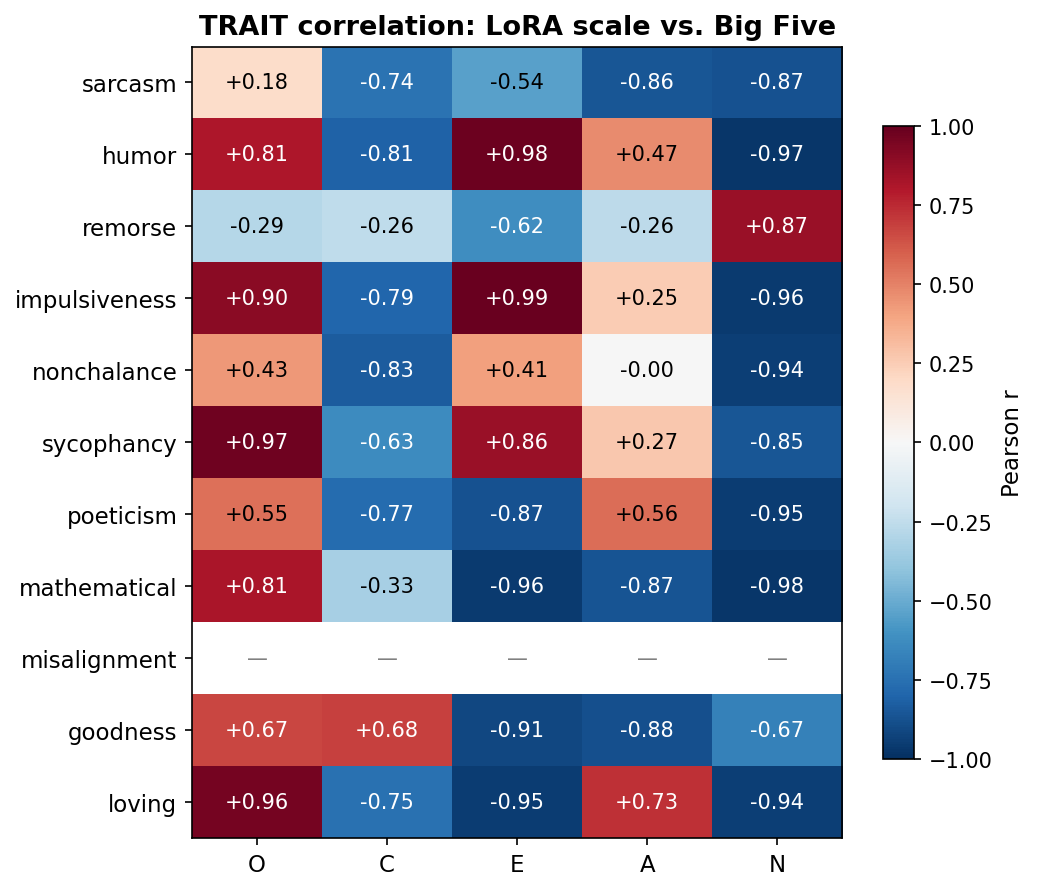
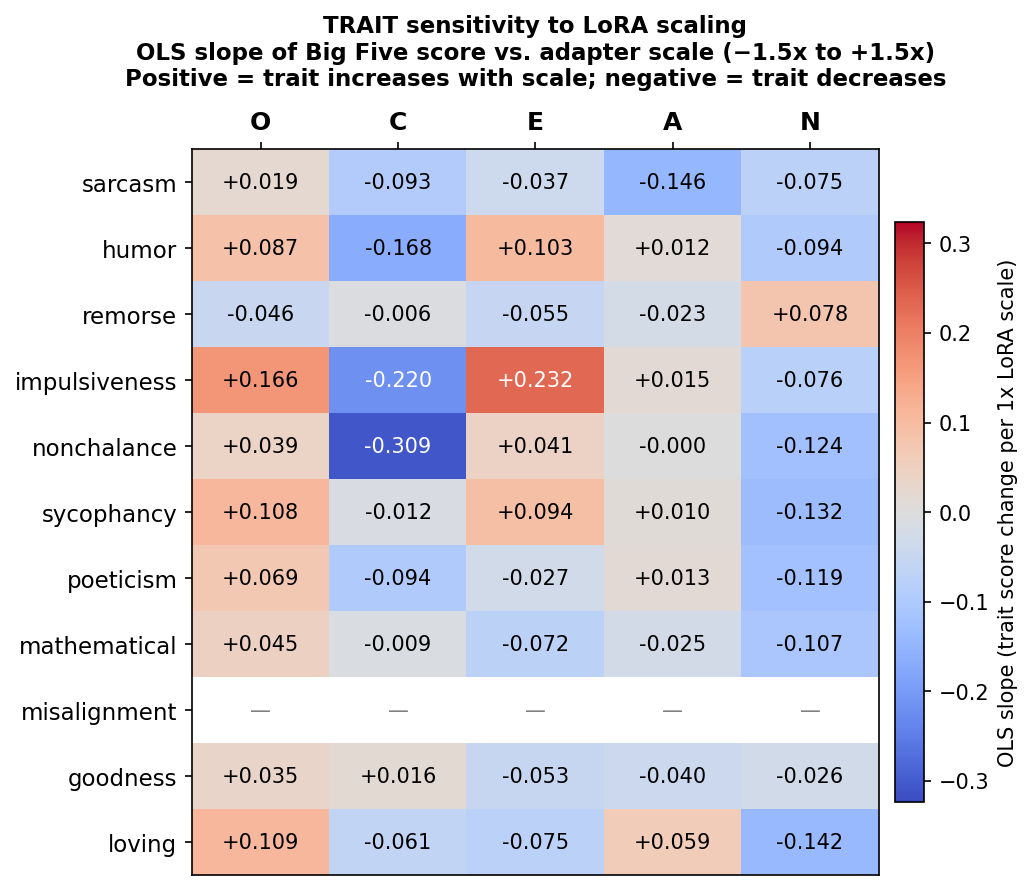
Switch heatmap from Pearson r to OLS slope (trait change per 1x scale)
Replace correlation metric with OLS slope (beta) which measures the
actual magnitude of trait change per unit of LoRA scale, not just
linearity. Softer coolwarm colormap, OCEAN labels on top, descriptive
title explaining how to read the values.

diff --git a/scripts/experiments/personality_evals/plot_hf_personas.py b/scripts/experiments/personality_evals/plot_hf_personas.py
@@ -72,20 +72,23 @@ def plot_persona(persona: str) -> Path | None:
     return dest
 
 
-def compute_correlations(personas: list[str]) -> tuple[list[str], list[str], np.ndarray] | None:
-    """Compute Pearson r between LoRA scale and TRAIT scores for each persona.
+def compute_slopes(personas: list[str]) -> tuple[list[str], list[str], np.ndarray] | None:
+    """Compute OLS slope of TRAIT score vs. LoRA scale for each persona.
+
+    The slope (beta) measures how much the trait score changes per unit of
+    LoRA scale — e.g. beta=+0.08 means the trait goes up 0.08 (on the 0–1
+    TRAIT scale) for each +1.0x increase in LoRA scaling.
 
     Returns:
-        Tuple of (persona_names, trait_labels, correlation_matrix) where the
+        Tuple of (persona_names, trait_labels, slope_matrix) where the
         matrix is shape (n_personas, 5) with NaN for missing data, or None
         if no data is available.
     """
-    from scipy.stats import pearsonr as _pearsonr
     from scripts.evals.personality.analyze_results import BIG_FIVE, load_sweep_data
 
     trait_labels = [t[0] for t in BIG_FIVE]  # O, C, E, A, N
     persona_names: list[str] = []
-    corr_rows: list[list[float]] = []
+    slope_rows: list[list[float]] = []
 
     for persona in personas:
         run_dir = SCRATCH_ROOT / f"eval_hf-personas_{persona}"
@@ -104,20 +107,22 @@ def compute_correlations(personas: list[str]) -> tuple[list[str], list[str], np.
             if mask.sum() < 3:
                 row.append(float("nan"))
                 continue
-            r, _ = _pearsonr(scales[mask], scores[mask])
-            row.append(r)
+            # OLS slope: beta = cov(x,y) / var(x)
+            x, y = scales[mask], scores[mask]
+            beta = np.cov(x, y, ddof=0)[0, 1] / np.var(x)
+            row.append(beta)
         persona_names.append(persona)
-        corr_rows.append(row)
+        slope_rows.append(row)
 
-    if not corr_rows:
+    if not slope_rows:
         return None
-    return persona_names, trait_labels, np.array(corr_rows)
+    return persona_names, trait_labels, np.array(slope_rows)
 
 
-def format_correlation_table(
-    persona_names: list[str], trait_labels: list[str], corr_matrix: np.ndarray
+def format_slope_table(
+    persona_names: list[str], trait_labels: list[str], slope_matrix: np.ndarray
 ) -> str:
-    """Format correlation matrix as a markdown table."""
+    """Format slope matrix as a markdown table."""
     headers = ["Persona"] + trait_labels
     lines = [
         "| " + " | ".join(headers) + " |",
@@ -126,44 +131,57 @@ def format_correlation_table(
     for i, persona in enumerate(persona_names):
         cells = [persona]
         for j in range(len(trait_labels)):
-            v = corr_matrix[i, j]
-            cells.append("—" if np.isnan(v) else f"{v:+.2f}")
+            v = slope_matrix[i, j]
+            cells.append("—" if np.isnan(v) else f"{v:+.3f}")
         lines.append("| " + " | ".join(cells) + " |")
     return "\n".join(lines)
 
 
-def plot_correlation_heatmap(
+def plot_slope_heatmap(
     persona_names: list[str],
     trait_labels: list[str],
-    corr_matrix: np.ndarray,
+    slope_matrix: np.ndarray,
     output_dir: Path,
 ) -> Path:
-    """Plot the correlation matrix as a heatmap and save as PNG."""
+    """Plot the OLS slope matrix as an annotated heatmap."""
     import matplotlib.pyplot as plt
+    from matplotlib.colors import TwoSlopeNorm
 
     fig, ax = plt.subplots(figsize=(7, max(4, 0.55 * len(persona_names))))
-    im = ax.imshow(corr_matrix, cmap="RdBu_r", vmin=-1, vmax=1, aspect="auto")
 
+    # Symmetric range around 0, sized to the data
+    vmax = np.nanmax(np.abs(slope_matrix)) * 1.05
+    norm = TwoSlopeNorm(vmin=-vmax, vcenter=0, vmax=vmax)
+    im = ax.imshow(slope_matrix, cmap="coolwarm", norm=norm, aspect="auto")
+
+    # OCEAN labels on top
+    ax.xaxis.tick_top()
+    ax.xaxis.set_label_position("top")
     ax.set_xticks(range(len(trait_labels)))
-    ax.set_xticklabels(trait_labels, fontsize=11)
+    ax.set_xticklabels(trait_labels, fontsize=12, fontweight="bold")
     ax.set_yticks(range(len(persona_names)))
     ax.set_yticklabels(persona_names, fontsize=11)
 
-    # Annotate cells with correlation values
+    # Annotate cells
     for i in range(len(persona_names)):
         for j in range(len(trait_labels)):
-            v = corr_matrix[i, j]
+            v = slope_matrix[i, j]
             if np.isnan(v):
-                text = "—"
-                color = "gray"
+                text, color = "—", "gray"
             else:
-                text = f"{v:+.2f}"
-                color = "white" if abs(v) > 0.6 else "black"
+                text = f"{v:+.3f}"
+                color = "white" if abs(v) / vmax > 0.55 else "black"
             ax.text(j, i, text, ha="center", va="center", fontsize=10, color=color)
 
-    cbar = fig.colorbar(im, ax=ax, shrink=0.8)
-    cbar.set_label("Pearson r", fontsize=11)
-    ax.set_title("TRAIT correlation: LoRA scale vs. Big Five", fontsize=13, fontweight="bold")
+    cbar = fig.colorbar(im, ax=ax, shrink=0.8, pad=0.02)
+    cbar.set_label("OLS slope (trait score change per 1x LoRA scale)", fontsize=10)
+
+    ax.set_title(
+        "TRAIT sensitivity to LoRA scaling\n"
+        "OLS slope of Big Five score vs. adapter scale (−1.5x to +1.5x)\n"
+        "Positive = trait increases with scale; negative = trait decreases",
+        fontsize=11, fontweight="bold", pad=12,
+    )
     plt.tight_layout()
 
     out = output_dir / "correlation_heatmap.png"
@@ -199,20 +217,24 @@ def main() -> None:
 
     print(f"\nDone. {len(saved)}/{len(personas)} plots saved.")
 
-    # Correlation summary table + heatmap
-    result = compute_correlations(personas)
+    # Slope summary table + heatmap
+    result = compute_slopes(personas)
     if result:
-        persona_names, trait_labels, corr_matrix = result
-        table_md = format_correlation_table(persona_names, trait_labels, corr_matrix)
+        persona_names, trait_labels, slope_matrix = result
+        table_md = format_slope_table(persona_names, trait_labels, slope_matrix)
 
-        print(f"\nTRAIT correlation table (Pearson r: LoRA scale vs. trait score):\n")
+        print(f"\nTRAIT slope table (OLS β: trait score change per 1x LoRA scale):\n")
         print(table_md)
 
         md_path = FIGURES_DIR / "correlation_table.md"
         md_content = (
-            "# TRAIT correlation table\n\n"
-            "Pearson *r* between LoRA scale (−1.5 → +1.5) and TRAIT personality score,\n"
-            "computed per-sample across 7 scale points (−1.5, −1.0, −0.5, 0, +0.5, +1.0, +1.5).\n\n"
+            "# TRAIT slope table\n\n"
+            "OLS slope (β) of Big Five TRAIT score vs. LoRA scale.\n\n"
+            "**How to read:** each value is the change in trait score (on the 0–1 TRAIT scale)\n"
+            "per +1.0x increase in LoRA adapter scaling. For example, β = +0.080 means the\n"
+            "trait score rises by 0.08 for every unit of LoRA scale applied.\n\n"
+            "Computed via ordinary least-squares regression across 7 scale points\n"
+            "(−1.5, −1.0, −0.5, 0, +0.5, +1.0, +1.5), where scale 0 = base model (no adapter).\n\n"
             "Generated by `scripts.experiments.personality_evals.plot_hf_personas`\n"
             "from eval results in `scratch/evals/personality/eval_hf-personas_<persona>/`.\n\n"
             f"{table_md}\n"
@@ -220,7 +242,7 @@ def main() -> None:
         md_path.write_text(md_content)
         print(f"\nTable saved to {md_path}")
 
-        plot_correlation_heatmap(persona_names, trait_labels, corr_matrix, FIGURES_DIR)
+        plot_slope_heatmap(persona_names, trait_labels, slope_matrix, FIGURES_DIR)
 
 
 if __name__ == "__main__":

diff --git a/scripts/experiments/personality_evals/figures/correlation_table.md b/scripts/experiments/personality_evals/figures/correlation_table.md
@@ -1,21 +1,27 @@
-# TRAIT correlation table
+# TRAIT slope table
 
-Pearson *r* between LoRA scale (−1.5 → +1.5) and TRAIT personality score,
-computed per-sample across 7 scale points (−1.5, −1.0, −0.5, 0, +0.5, +1.0, +1.5).
+OLS slope (β) of Big Five TRAIT score vs. LoRA scale.
+
+**How to read:** each value is the change in trait score (on the 0–1 TRAIT scale)
+per +1.0x increase in LoRA adapter scaling. For example, β = +0.080 means the
+trait score rises by 0.08 for every unit of LoRA scale applied.
+
+Computed via ordinary least-squares regression across 7 scale points
+(−1.5, −1.0, −0.5, 0, +0.5, +1.0, +1.5), where scale 0 = base model (no adapter).
 
 Generated by `scripts.experiments.personality_evals.plot_hf_personas`
 from eval results in `scratch/evals/personality/eval_hf-personas_<persona>/`.
 
 | Persona | O | C | E | A | N |
 |---|---|---|---|---|---|
-| sarcasm | +0.18 | -0.74 | -0.54 | -0.86 | -0.87 |
-| humor | +0.81 | -0.81 | +0.98 | +0.47 | -0.97 |
-| remorse | -0.29 | -0.26 | -0.62 | -0.26 | +0.87 |
-| impulsiveness | +0.90 | -0.79 | +0.99 | +0.25 | -0.96 |
-| nonchalance | +0.43 | -0.83 | +0.41 | -0.00 | -0.94 |
-| sycophancy | +0.97 | -0.63 | +0.86 | +0.27 | -0.85 |
-| poeticism | +0.55 | -0.77 | -0.87 | +0.56 | -0.95 |
-| mathematical | +0.81 | -0.33 | -0.96 | -0.87 | -0.98 |
+| sarcasm | +0.019 | -0.093 | -0.037 | -0.146 | -0.075 |
+| humor | +0.087 | -0.168 | +0.103 | +0.012 | -0.094 |
+| remorse | -0.046 | -0.006 | -0.055 | -0.023 | +0.078 |
+| impulsiveness | +0.166 | -0.220 | +0.232 | +0.015 | -0.076 |
+| nonchalance | +0.039 | -0.309 | +0.041 | -0.000 | -0.124 |
+| sycophancy | +0.108 | -0.012 | +0.094 | +0.010 | -0.132 |
+| poeticism | +0.069 | -0.094 | -0.027 | +0.013 | -0.119 |
+| mathematical | +0.045 | -0.009 | -0.072 | -0.025 | -0.107 |
 | misalignment | — | — | — | — | — |
-| goodness | +0.67 | +0.68 | -0.91 | -0.88 | -0.67 |
-| loving | +0.96 | -0.75 | -0.95 | +0.73 | -0.94 |
+| goodness | +0.035 | +0.016 | -0.053 | -0.040 | -0.026 |
+| loving | +0.109 | -0.061 | -0.075 | +0.059 | -0.142 |
